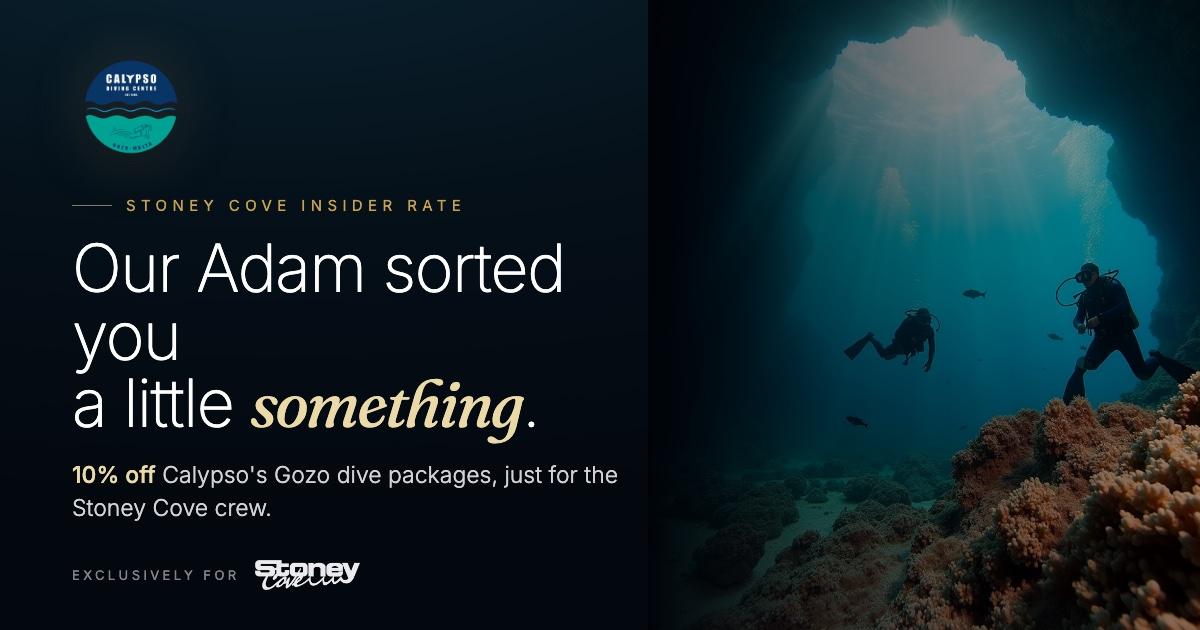
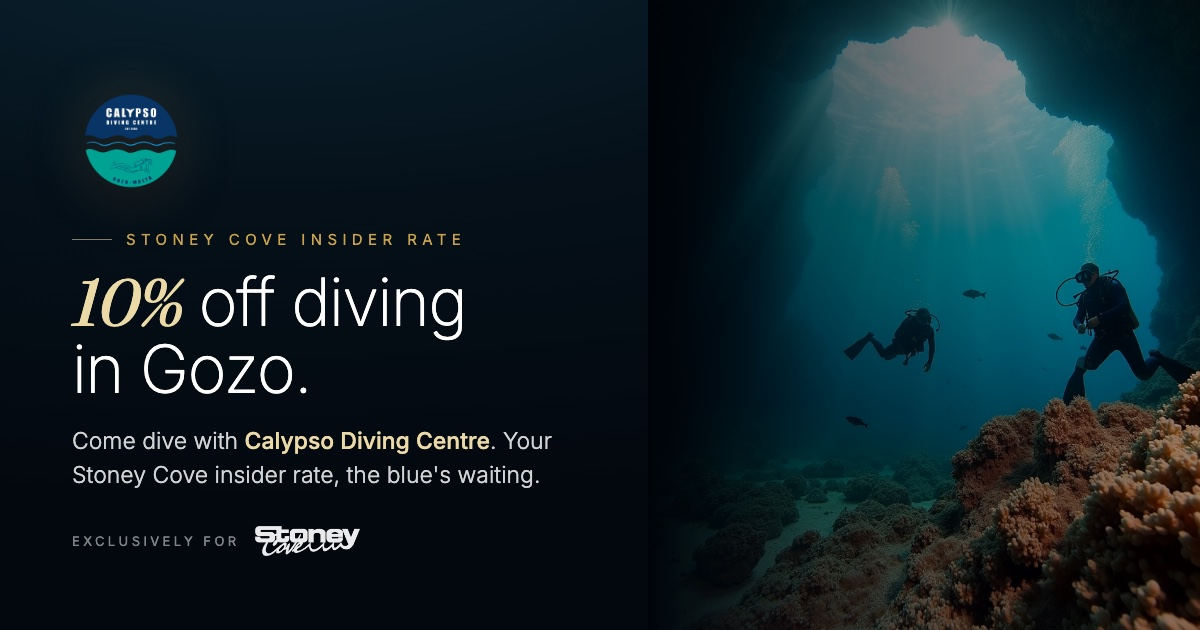
Link preview: warmer Calypso-forward copy, no Adam name

Changed region(s): [[0.0617, 0.3619, 0.5242, 0.9349], [0.0617, 0.0905, 0.37, 0.3317]]

diff --git a/index.html b/index.html
@@ -10,15 +10,15 @@
 <!-- Link preview (WhatsApp / Messenger / iMessage) -->
 <meta property="og:type" content="website"/>
 <meta property="og:url" content="https://adam.calypsodivers.com/"/>
-<meta property="og:title" content="Our Adam sorted you a little something"/>
-<meta property="og:description" content="10% off Calypso's Gozo dive packages, just for the Stoney Cove crew. Tap for your code."/>
+<meta property="og:title" content="10% off diving in Gozo · Stoney Cove rate"/>
+<meta property="og:description" content="Come dive with Calypso Diving Centre, Gozo. Your Stoney Cove insider rate, 10% off. Tap for your code."/>
 <meta property="og:image" content="https://adam.calypsodivers.com/assets/share-adam.jpg"/>
 <meta property="og:image:width" content="1200"/>
 <meta property="og:image:height" content="630"/>
 <meta property="og:site_name" content="Calypso Diving Centre, Gozo"/>
 <meta name="twitter:card" content="summary_large_image"/>
-<meta name="twitter:title" content="Our Adam sorted you a little something"/>
-<meta name="twitter:description" content="10% off Calypso's Gozo dive packages, just for the Stoney Cove crew."/>
+<meta name="twitter:title" content="10% off diving in Gozo · Stoney Cove rate"/>
+<meta name="twitter:description" content="Come dive with Calypso Diving Centre, Gozo. Your Stoney Cove insider rate, 10% off."/>
 <meta name="twitter:image" content="https://adam.calypsodivers.com/assets/share-adam.jpg"/>
 <link rel="preconnect" href="https://fonts.googleapis.com"/>
 <link rel="preconnect" href="https://fonts.gstatic.com" crossorigin/>